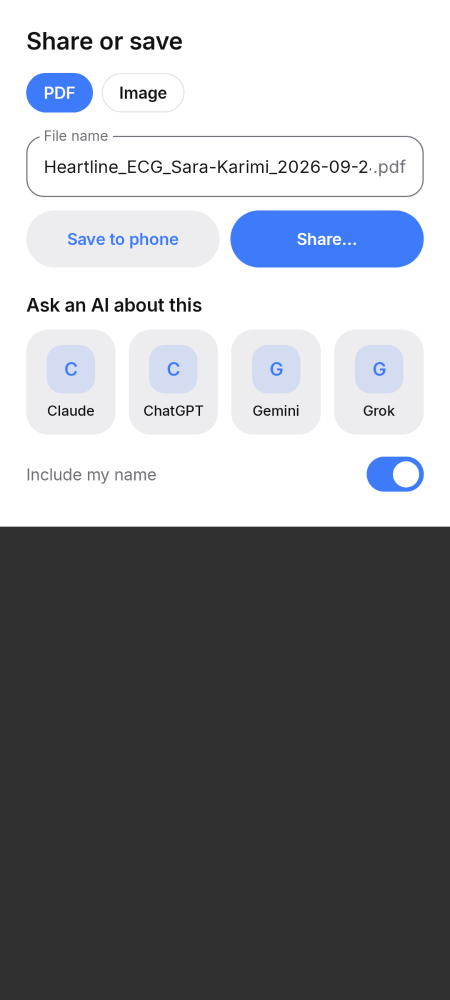
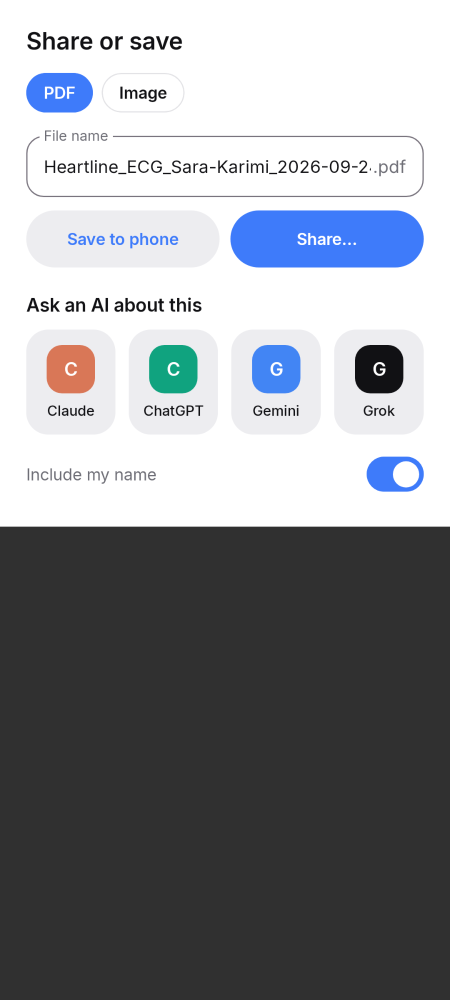
Clearer body-composition visual on the watch; app-coloured AI tiles in previews
- Body composition "measuring" drew a blob with two dots that didn't read as anything. It now
  shows the watch face with the body icon and its two side keys, which glow in turn.
- AI tiles without an app icon (previews only; on a phone the installed app's own icon is used)
  now show a monogram in the app's colour instead of a grey letter.

diff --git a/wear/src/main/kotlin/com/heartline/wear/ui/components/LiveAnimations.kt b/wear/src/main/kotlin/com/heartline/wear/ui/components/LiveAnimations.kt
@@ -10,7 +10,9 @@ import androidx.compose.animation.core.rememberInfiniteTransition
 import androidx.compose.animation.core.tween
 import androidx.compose.foundation.Canvas
 import androidx.compose.foundation.layout.Box
+import androidx.compose.foundation.layout.fillMaxHeight
 import androidx.compose.foundation.layout.fillMaxSize
+import androidx.compose.foundation.layout.fillMaxWidth
 import androidx.compose.foundation.layout.size
 import androidx.compose.material.icons.Icons
 import androidx.compose.material.icons.rounded.Favorite
@@ -140,9 +142,9 @@ fun ThermometerFill(color: Color, modifier: Modifier = Modifier, animate: Boolea
     }
 }
 
-/** Two fingertips on the keys, glowing in turn (body composition needs both keys held). */
+/** The watch face with its two side keys glowing in turn (body composition needs both keys held). */
 @Composable
-fun KeysContact(color: Color, modifier: Modifier = Modifier, animate: Boolean = true) {
+fun KeysContact(color: Color, modifier: Modifier = Modifier, animate: Boolean = true, content: @Composable () -> Unit = {}) {
     val phase = if (animate) {
         val t = rememberInfiniteTransition(label = "keys")
         val v by t.animateFloat(0f, 1f, infiniteRepeatable(tween(1_400, easing = LinearEasing)), label = "phase")
@@ -150,14 +152,27 @@ fun KeysContact(color: Color, modifier: Modifier = Modifier, animate: Boolean = 
     } else {
         0.25f
     }
-    Canvas(modifier) {
-        val r = size.minDimension * 0.16f
-        val centres = listOf(Offset(size.width * 0.72f, size.height * 0.3f), Offset(size.width * 0.72f, size.height * 0.7f))
-        drawRoundRect(color.copy(alpha = 0.18f), Offset(size.width * 0.08f, size.height * 0.12f), Size(size.width * 0.55f, size.height * 0.76f), CornerRadius(size.width * 0.2f))
-        centres.forEachIndexed { i, c ->
+    Box(modifier) {
+    Canvas(Modifier.fillMaxSize()) {
+        // The watch seen from the front: its face, and the two side keys the fingers rest on.
+        val w = size.width
+        val h = size.height
+        val face = Offset(w * 0.40f, h * 0.5f)
+        val radius = w * 0.32f
+        drawCircle(color.copy(alpha = 0.14f), radius = radius, center = face)
+        drawCircle(color.copy(alpha = 0.55f), radius = radius, center = face, style = Stroke(2.dp.toPx()))
+        val keyW = w * 0.11f
+        val keyH = h * 0.17f
+        val keyX = face.x + radius + w * 0.05f
+        listOf(face.y - h * 0.2f, face.y + h * 0.2f).forEachIndexed { i, y ->
+            // Contact glow: the two keys pulse in turn while the current flows.
             val glow = ((phase + i * 0.5f) % 1f).let { if (it < 0.5f) it * 2 else (1 - it) * 2 }
-            drawCircle(color.copy(alpha = 0.25f + 0.6f * glow), radius = r * (1f + 0.35f * glow), center = c)
-            drawCircle(color, radius = r * 0.55f, center = c)
+            val centre = Offset(keyX + keyW / 2, y)
+            drawCircle(color.copy(alpha = 0.10f + 0.30f * glow), radius = keyH * (0.75f + 0.35f * glow), center = centre)
+            drawRoundRect(color, Offset(keyX, y - keyH / 2), Size(keyW, keyH), CornerRadius(keyW / 2))
         }
+    }
+        // The face is centred at 40 % of the width; [content] (the metric icon) sits in it.
+        Box(Modifier.fillMaxHeight().fillMaxWidth(0.8f).align(Alignment.CenterStart), contentAlignment = Alignment.Center) { content() }
     }
 }

diff --git a/phone/src/main/kotlin/com/heartline/phone/ui/share/ShareSheet.kt b/phone/src/main/kotlin/com/heartline/phone/ui/share/ShareSheet.kt
@@ -34,6 +34,7 @@ import androidx.compose.runtime.setValue
 import androidx.compose.ui.Alignment
 import androidx.compose.ui.Modifier
 import androidx.compose.ui.draw.clip
+import androidx.compose.ui.graphics.Color
 import androidx.compose.ui.graphics.asImageBitmap
 import androidx.compose.ui.res.stringResource
 import androidx.compose.ui.unit.dp
@@ -139,14 +140,23 @@ private fun AiTile(target: AiTarget, modifier: Modifier = Modifier, onClick: () 
             val bitmap = remember(icon) { icon.toBitmap(144, 144).asImageBitmap() }
             Image(bitmap, contentDescription = null, modifier = Modifier.size(44.dp).clip(RoundedCornerShape(14.dp)))
         } else {
-            // No icon available (never for an installed app; used in previews): a monogram.
-            Box(Modifier.size(44.dp).clip(RoundedCornerShape(14.dp)).background(colors.primary.copy(alpha = 0.14f)), contentAlignment = Alignment.Center) {
-                Text(target.label.take(1), style = MaterialTheme.typography.titleMedium, color = colors.primary)
+            // No icon available (never for an installed app; used in previews): a monogram in the app's colour.
+            val (background, foreground) = monogramColors(target.packageName)
+            Box(Modifier.size(44.dp).clip(RoundedCornerShape(14.dp)).background(background), contentAlignment = Alignment.Center) {
+                Text(target.label.take(1), style = MaterialTheme.typography.titleMedium, color = foreground)
             }
         }
         Spacer(Modifier.height(8.dp))
         Text(target.label, style = MaterialTheme.typography.labelMedium, color = colors.onBackground, maxLines = 1, overflow = TextOverflow.Ellipsis)
     }
+}
+
+private fun monogramColors(packageName: String): Pair<Color, Color> = when (packageName) {
+    "com.anthropic.claude" -> Color(0xFFD97757) to Color.White
+    "com.openai.chatgpt" -> Color(0xFF10A37F) to Color.White
+    "com.google.android.apps.bard" -> Color(0xFF4285F4) to Color.White
+    "ai.x.grok" -> Color(0xFF111114) to Color.White
+    else -> Color(0xFF3E7BFA) to Color.White
 }
 
 /** Shown before the first share to an AI app. */

diff --git a/wear/src/main/kotlin/com/heartline/wear/ui/screens/QuickScreens.kt b/wear/src/main/kotlin/com/heartline/wear/ui/screens/QuickScreens.kt
@@ -114,7 +114,9 @@ fun QuickMeasuringScreen(
                     Icon(metric.icon, contentDescription = null, tint = color, modifier = Modifier.size(22.dp))
                 }
                 Metric.SKIN_TEMPERATURE -> ThermometerFill(color, Modifier.size(width = visual * 0.6f, height = visual), animate)
-                Metric.BODY_COMPOSITION -> KeysContact(color, Modifier.size(visual), animate)
+                Metric.BODY_COMPOSITION -> KeysContact(color, Modifier.size(visual), animate) {
+                    Icon(metric.icon, contentDescription = null, tint = color, modifier = Modifier.size(20.dp))
+                }
                 Metric.STRESS -> BreathingCircle(color, Modifier.size(visual), animate) {
                     BeatingHeart(bpm, color, 20.dp, animate)
                 }
